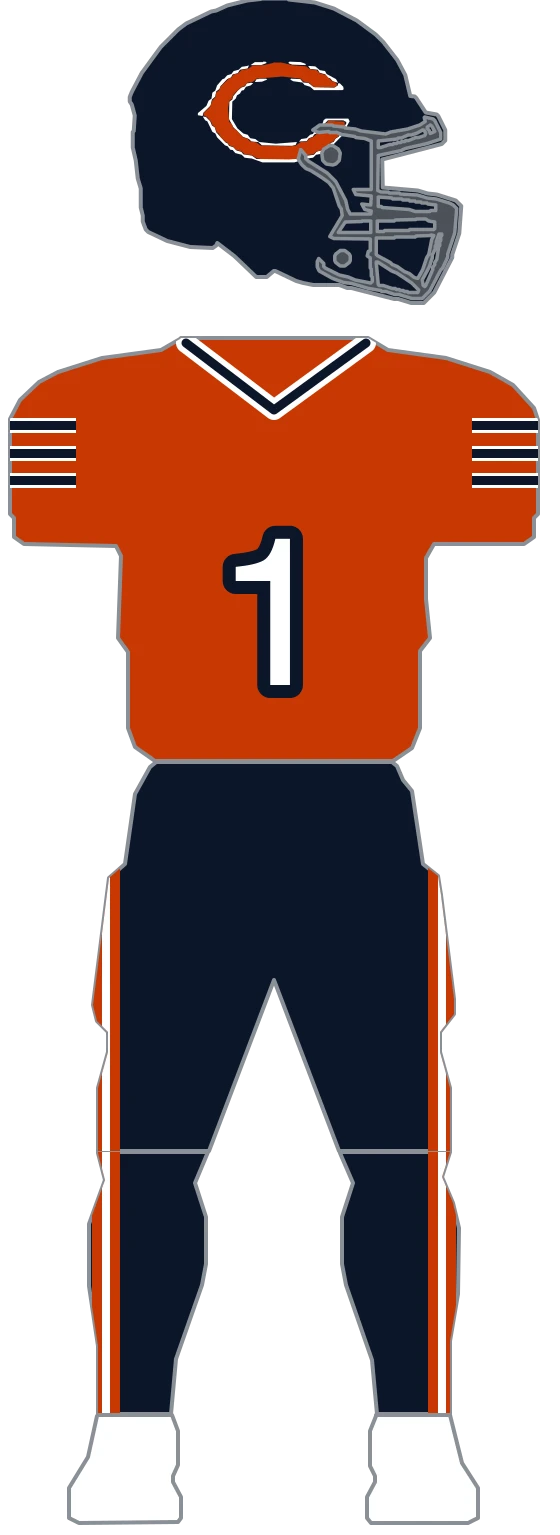
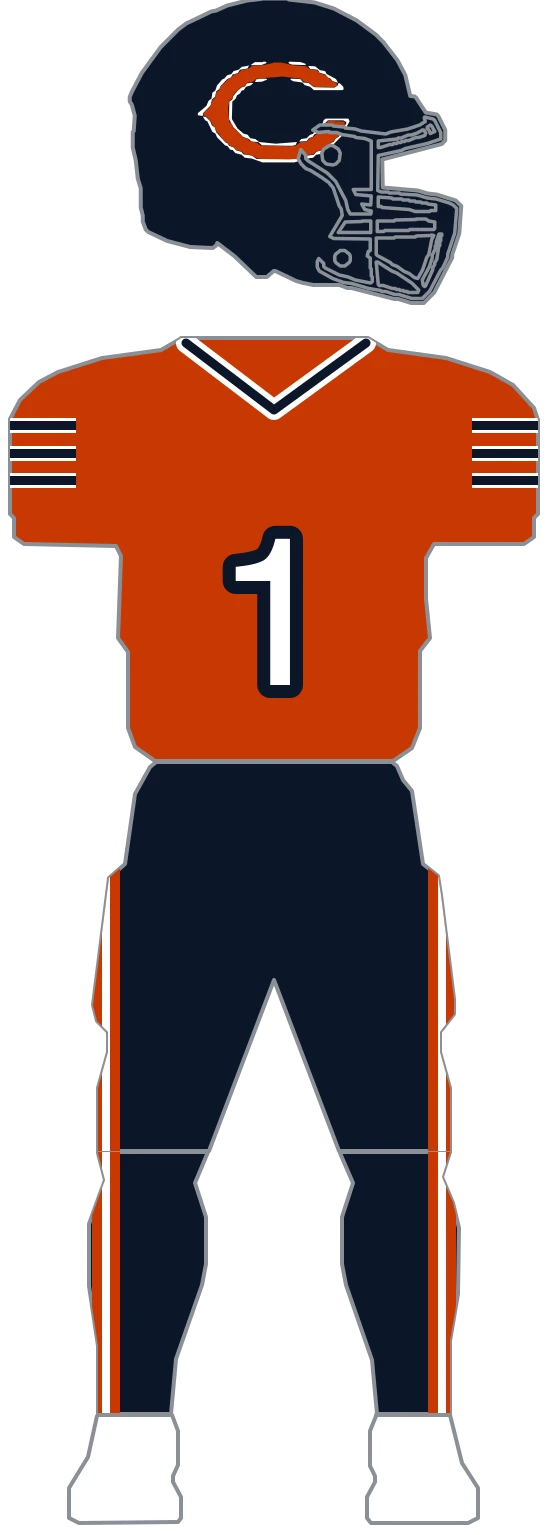
feat(uniforms): set the Bears' navy facemask (#709)
Chicago migrated to the composable parts model in depth#656 but was the one
migrated team whose helmet part never got a facemask, so its shell still
rendered the shared neutral grey cage.

Every helmet figure on the GUD 2025 composite wears a facemask painted the
shell color — the sheet samples #03182f there, which is its rendering of the
club navy rather than a separate color, so the cage takes the archive's own
stored navy (#0B162A) instead of an eyedrop. Same call the Rams' shell-colored
cage got in depth#708.

One shell serves all three kits, so the single edit moves all three -full
rasters and nothing else.

diff --git a/lib/uniforms/teams/bears.parts.ts b/lib/uniforms/teams/bears.parts.ts
@@ -81,8 +81,14 @@ function jersey(base: string, edge: string, core: string, numberFill: string): U
   };
 }
 
+// The one shell, on all three kits. The cage is navy, not a neutral: every helmet figure on the
+// GUD 2025 composite (nfl-uniform-refs/bears) wears a facemask painted the shell color, which
+// samples #03182f there. That is the sheet's rendering of the club navy rather than a separate
+// color, so the cage takes the archive's own stored navy (#0B162A) instead of an eyedrop — the
+// same call the Rams' shell-colored cage got.
 const HELMET_NAVY_C: UniformPart = {
   base: 'navy',
+  facemask: 'navy',
   layers: [
     { id: 'bears-decal-keyline', d: BEARS_DECAL_KEYLINE_PATH, fill: 'white' },
     { id: 'bears-decal-letter', d: BEARS_DECAL_LETTER_PATH, fill: 'orange' },
